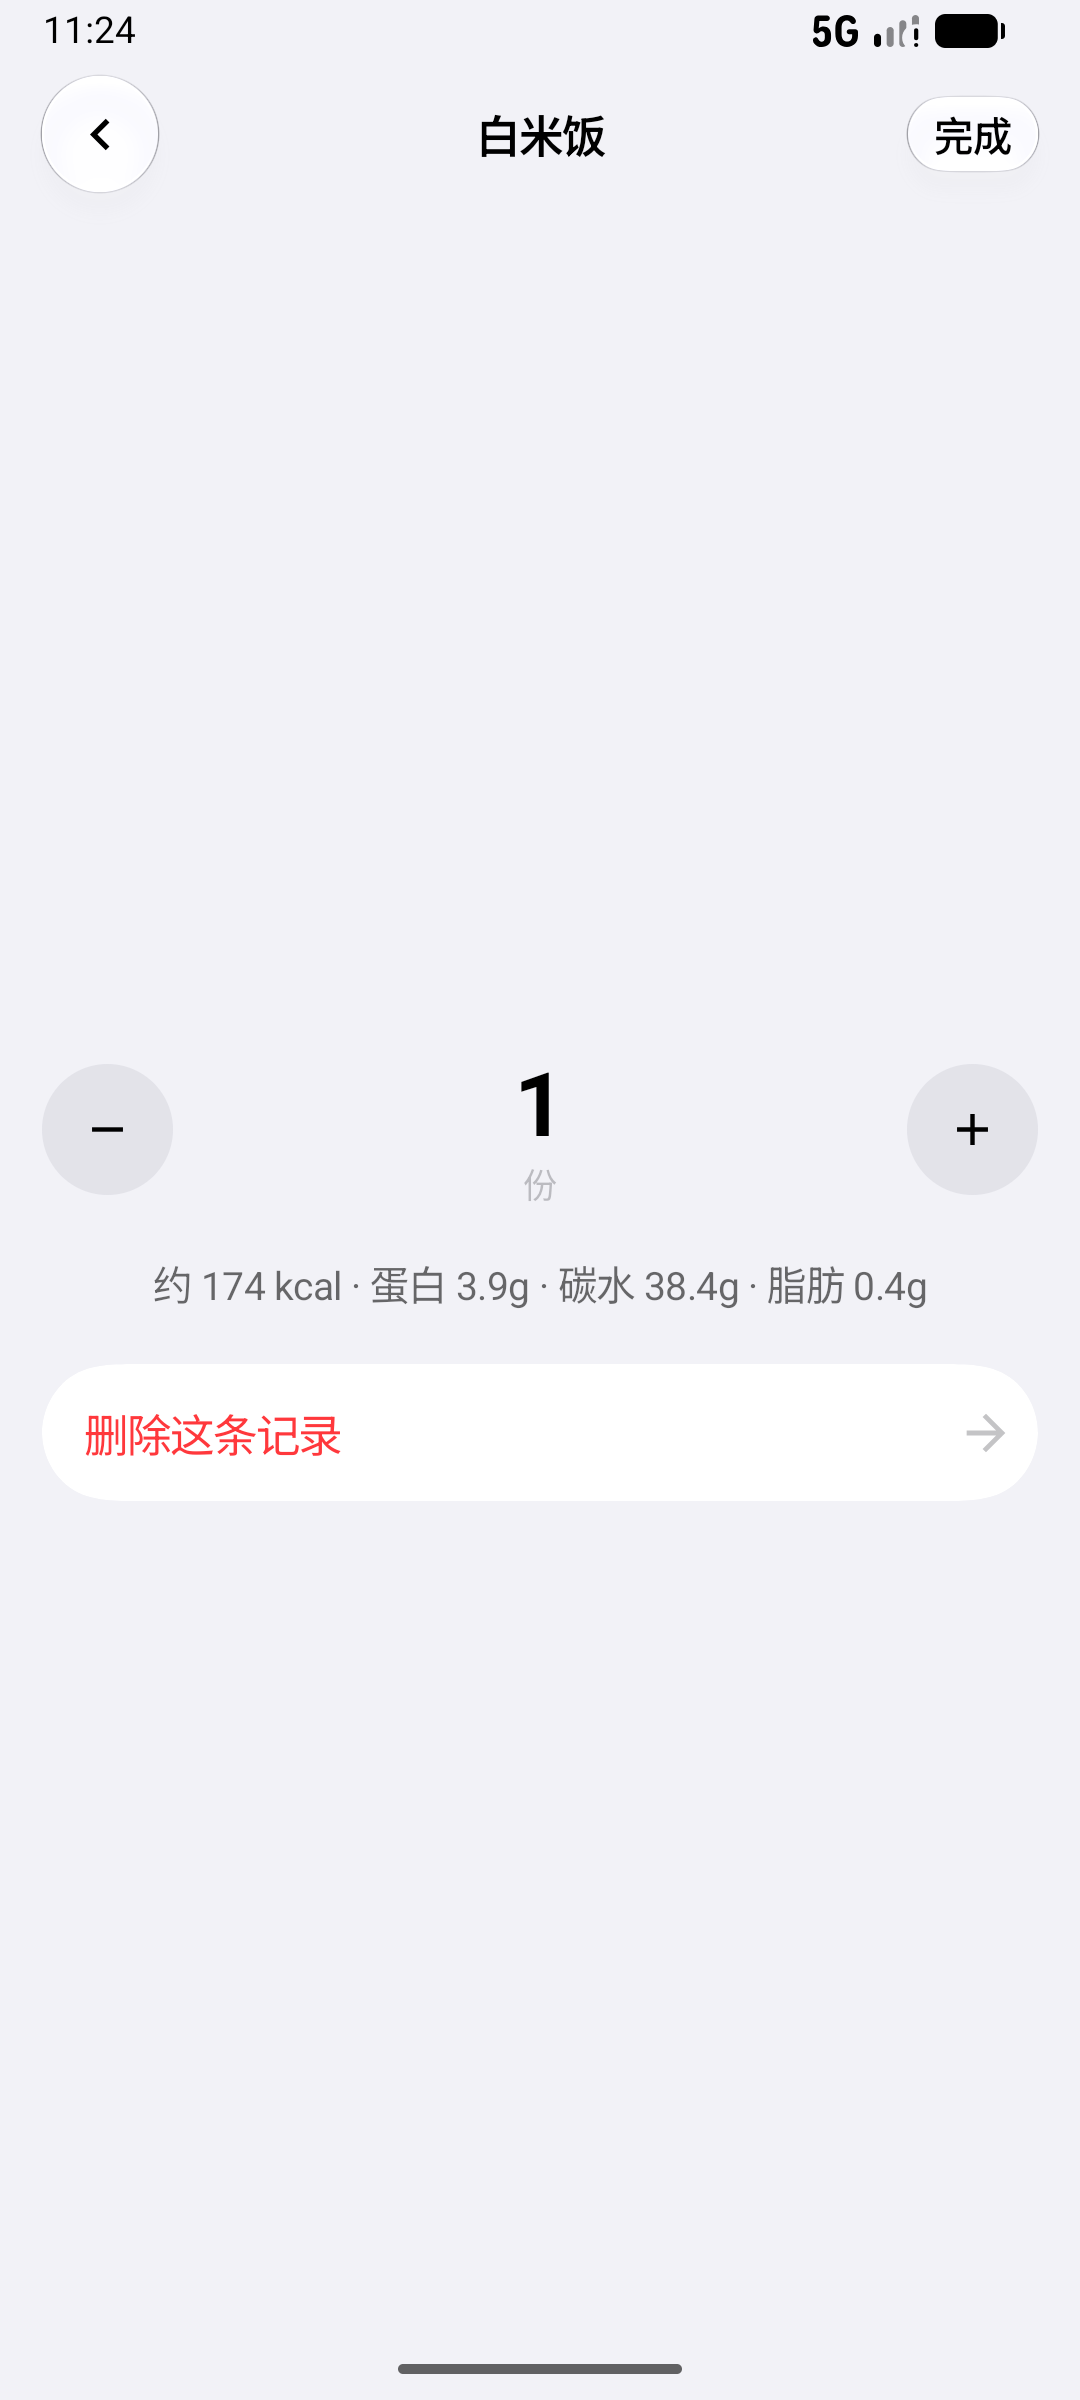
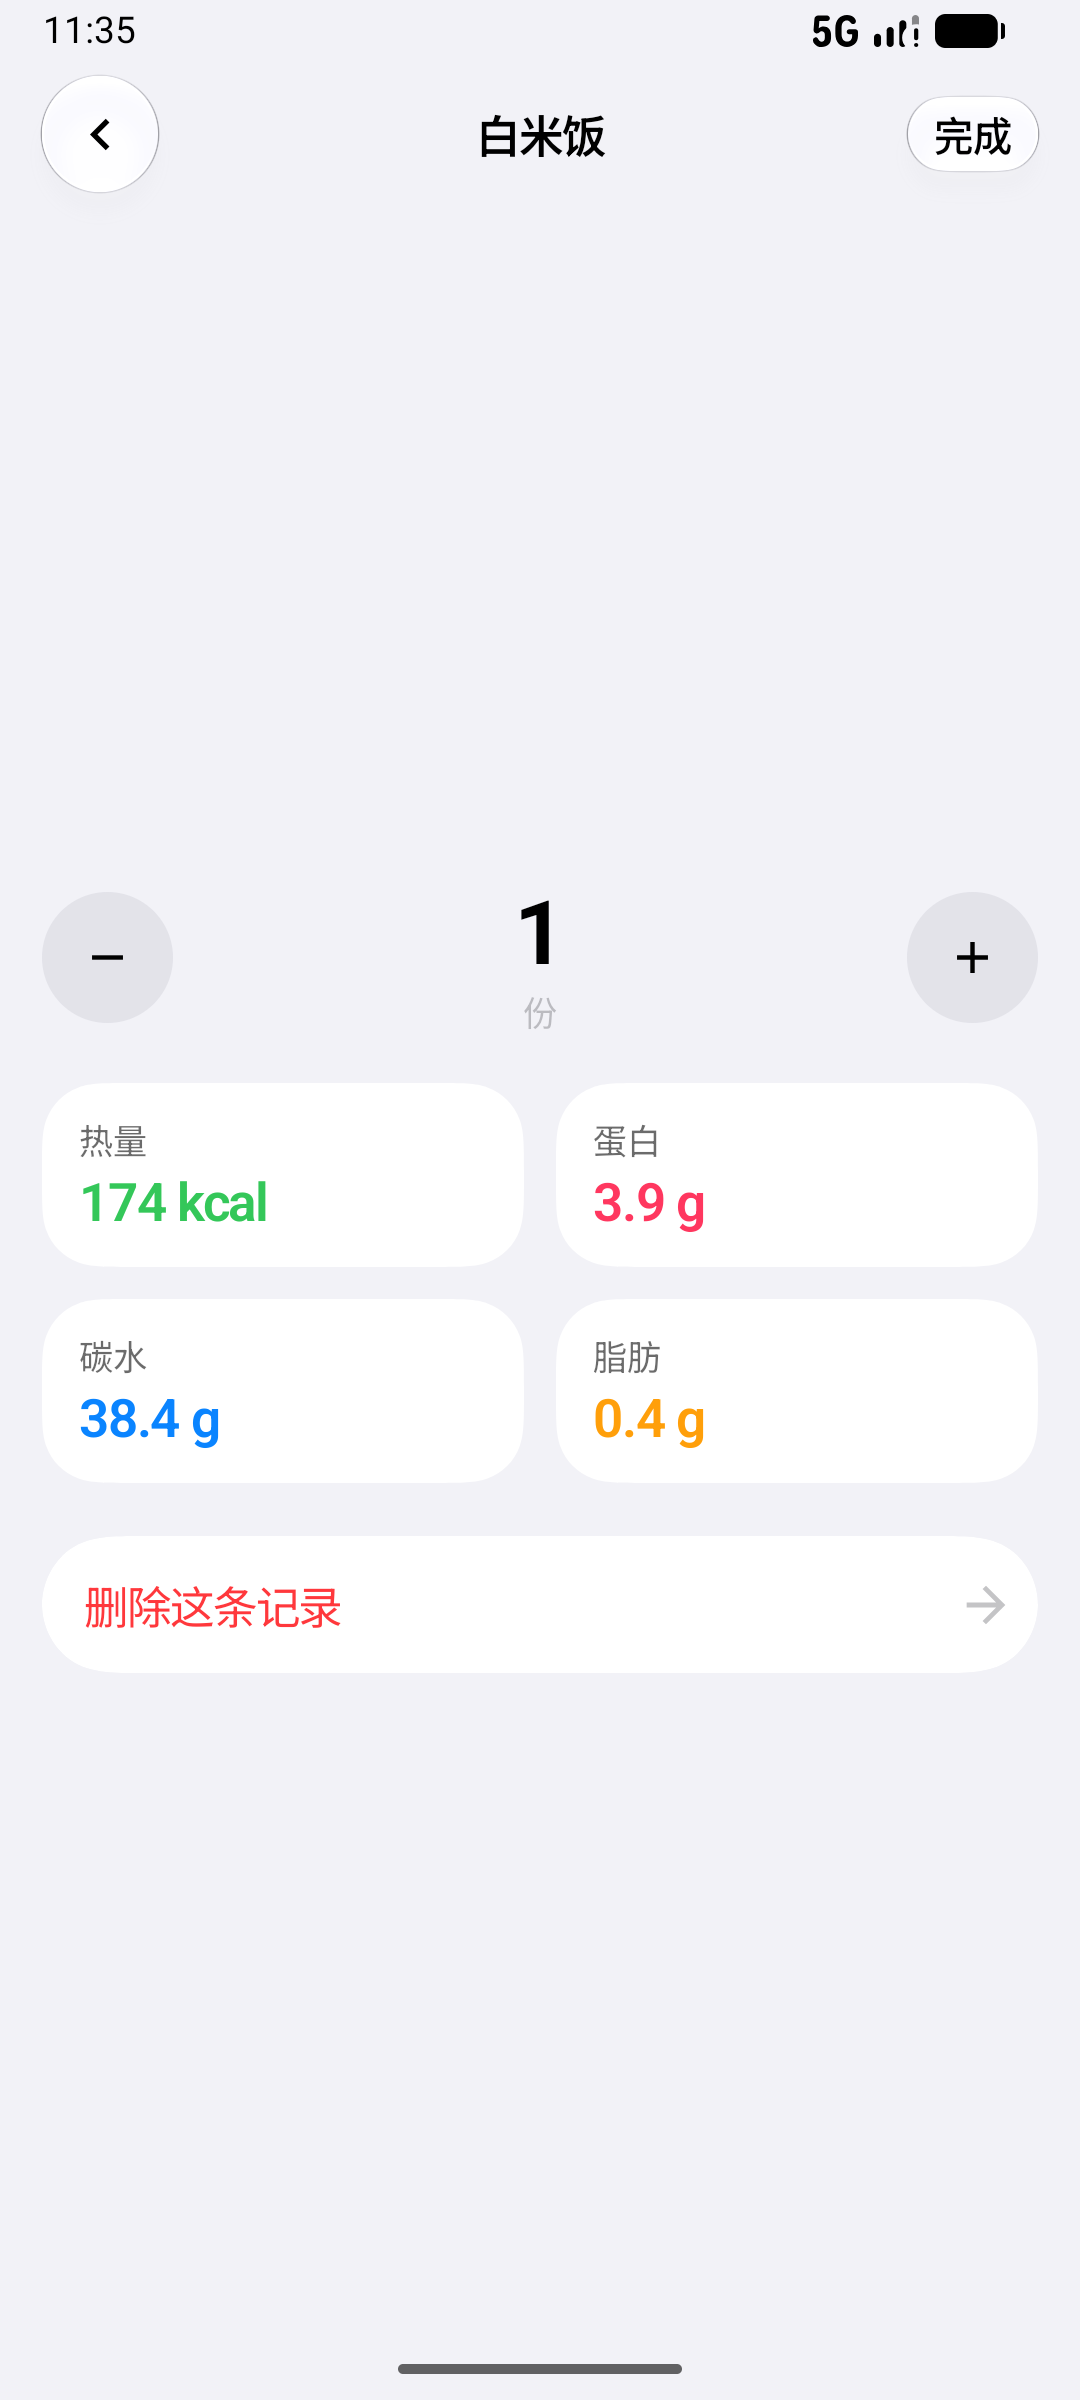
记录页营养做成卡片，表单分组分隔线两端留白
- 记录份量页：热量/蛋白/碳水/脂肪各一张卡片（2×2），代替原来一整行文字
- 表单分组的行分隔线加 16dp 水平内缩，不再贴到卡片左右圆角上（和列表行一致）
- 截图同步

diff --git a/app/src/main/java/com/fitlog/app/ui/sheets/FoodSheets.kt b/app/src/main/java/com/fitlog/app/ui/sheets/FoodSheets.kt
@@ -55,6 +55,7 @@ import com.fitlog.app.ui.Sheet
 import com.fitlog.app.ui.components.CategoryChips
 import com.fitlog.app.ui.components.EmptyHint
 import com.fitlog.app.ui.components.FieldRow
+import com.fitlog.app.ui.theme.FitPalette
 import com.fitlog.app.ui.components.FitSearchField
 import com.fitlog.app.ui.components.FoodEmojiBox
 import com.fitlog.app.ui.components.IosGroupFooter
@@ -667,17 +668,43 @@ fun EntrySheet(
                 )
             }
 
-            Text(
-                "约 ${kcal.roundToInt()} kcal · 蛋白 ${trimNumber(sheet.per.p * sheet.qty)}g · " +
-                    "碳水 ${trimNumber(sheet.per.c * sheet.qty)}g · " +
-                    "脂肪 ${trimNumber(sheet.per.fat * sheet.qty)}g",
-                style = IosTypography.subheadline,
-                color = colors.secondaryContent,
-                textAlign = TextAlign.Center,
-                modifier = Modifier
-                    .fillMaxWidth()
-                    .padding(bottom = 20.dp),
-            )
+            // 四项营养各占一张卡片：热量、蛋白、碳水、脂肪，2×2 排布
+            Row(
+                Modifier.fillMaxWidth(),
+                horizontalArrangement = Arrangement.spacedBy(12.dp),
+            ) {
+                NutrientCard(
+                    label = "热量",
+                    value = "${kcal.roundToInt()} kcal",
+                    tint = colors.accent,
+                    modifier = Modifier.weight(1f),
+                )
+                NutrientCard(
+                    label = "蛋白",
+                    value = "${trimNumber(sheet.per.p * sheet.qty)} g",
+                    tint = FitPalette.protein,
+                    modifier = Modifier.weight(1f),
+                )
+            }
+            Spacer(Modifier.height(12.dp))
+            Row(
+                Modifier.fillMaxWidth(),
+                horizontalArrangement = Arrangement.spacedBy(12.dp),
+            ) {
+                NutrientCard(
+                    label = "碳水",
+                    value = "${trimNumber(sheet.per.c * sheet.qty)} g",
+                    tint = FitPalette.carbs,
+                    modifier = Modifier.weight(1f),
+                )
+                NutrientCard(
+                    label = "脂肪",
+                    value = "${trimNumber(sheet.per.fat * sheet.qty)} g",
+                    tint = FitPalette.fat,
+                    modifier = Modifier.weight(1f),
+                )
+            }
+            Spacer(Modifier.height(20.dp))
 
             GlasmioGroupedList {
                 GlasmioListRow(
@@ -900,5 +927,40 @@ private fun pageBody(
         ),
     ) {
         Column(Modifier.fillMaxSize()) { body() }
+    }
+}
+
+/**
+ * 单项营养卡片：记录页把热量/蛋白/碳水/脂肪各做成一张卡，
+ * 比挤在一行文字里更好扫读，也和详情页的分组卡片保持同一种语言。
+ */
+@Composable
+private fun NutrientCard(
+    label: String,
+    value: String,
+    tint: Color,
+    modifier: Modifier = Modifier,
+) {
+    val colors = GlasmioTheme.colors
+    Column(
+        modifier
+            .clip(ContinuousRoundedRectangle(22.dp))
+            .background(colors.elevatedBackground)
+            .padding(horizontal = 14.dp, vertical = 12.dp),
+    ) {
+        Text(
+            label,
+            style = IosTypography.footnote,
+            color = colors.secondaryContent,
+            maxLines = 1,
+        )
+        Spacer(Modifier.height(2.dp))
+        Text(
+            value,
+            style = IosTypography.title3,
+            fontWeight = FontWeight(600),
+            color = tint,
+            maxLines = 1,
+        )
     }
 }

diff --git a/app/src/main/java/com/fitlog/app/ui/components/IosPrimitives.kt b/app/src/main/java/com/fitlog/app/ui/components/IosPrimitives.kt
@@ -228,7 +228,8 @@ fun FieldRow(
         modifier
             .fillMaxWidth()
             .height(52.dp)
-            .glasmioGroupedListSeparator(colors.separator, visible = showTopSeparator)
+            // 分隔线两端留白，不贴到卡片圆角上（和列表行保持一致）
+            .glasmioGroupedListSeparator(colors.separator, visible = showTopSeparator, horizontalInset = 16.dp)
             .padding(horizontal = 16.dp),
         verticalAlignment = Alignment.CenterVertically,
     ) {
@@ -279,7 +280,8 @@ fun ValueRow(
         modifier
             .fillMaxWidth()
             .height(52.dp)
-            .glasmioGroupedListSeparator(colors.separator, visible = showTopSeparator)
+            // 分隔线两端留白，不贴到卡片圆角上（和列表行保持一致）
+            .glasmioGroupedListSeparator(colors.separator, visible = showTopSeparator, horizontalInset = 16.dp)
             .padding(horizontal = 16.dp),
         verticalAlignment = Alignment.CenterVertically,
     ) {

diff --git a/README.md b/README.md
@@ -394,6 +394,7 @@ AGP 9.0 起内置 Kotlin 支持，**不再需要** `org.jetbrains.kotlin.android
 | 删除记录 | 删掉一条后提示条右侧出现「撤销」，几秒内点一下能原位恢复（不是排到最后） |
 | 二级页面打开 | 同条件首帧：新建食物 350 ms（原 Dialog 弹窗 750 ms，其中 layout 467 ms）；选择食物/记录份量/批量导入/资料 全部按页面打开，含键盘弹起 |
 | 记录份量返回 | 记录份量也改成了二级页面：关掉后底栏立刻恢复，不再等弹窗窗口销毁（原来会卡一下） |
+| 营养卡片 | 记录页四项营养各一张卡（热量/蛋白/碳水/脂肪 2×2），表单分组的分隔线两端留白，不再贴着卡片圆角 |
 | 圆环单位 | 数值行只放「已吃/目标」，单位挪到标签行「热量（千卡）」；字体调大、窄屏都不会再把单位挤出卡片 |
 | 每周速度 | 0.25 / 0.5 / 0.75 三档都能选中并高亮（之前 0.75 因为 `trimNumber` 四舍五入成 0.8 永远选不中） |
 | 跨零点 | 挂后台跨天回来，停在「今天」时自动顺延到新的一天；手动翻到历史日期则保持不动（判断逻辑有单测） |
